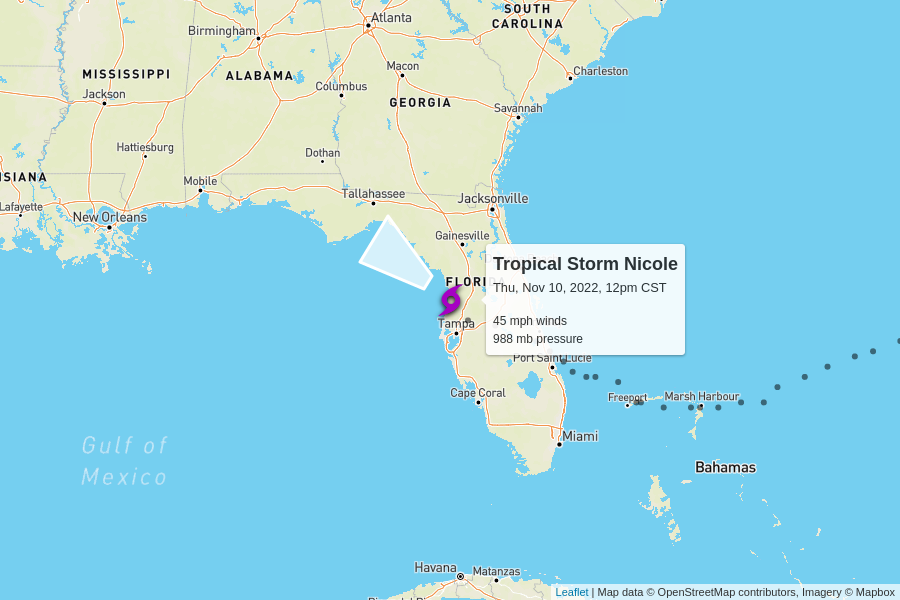
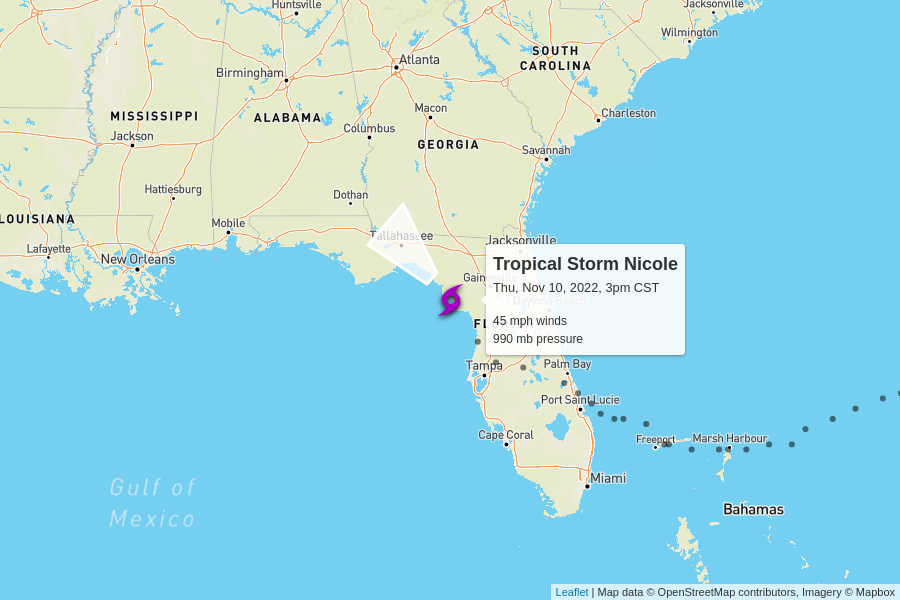
automatic update

diff --git a/docs/index.html b/docs/index.html
@@ -100,7 +100,7 @@
         <td colspan="6" class="storm category-0" >
           <h2>
             Tropical Storm Nicole
-            <p class="updated">last updated <span data-time>2022-11-10T18:00:00.000Z</span></p>
+            <p class="updated">last updated <span data-time>2022-11-10T21:00:00.000Z</span></p>
           </h2>
         </td>
       </tr>
@@ -116,11 +116,11 @@
       <tr>
         <td class="spacer"></td>
         <td>45 mph</td>
-        <td>988 mb</td>
+        <td>990 mb</td>
         <td>
           15 mph to the northwest
           <br/>
-          <span style="display: inline-block; font-size: 1.5em; transform: rotate(305deg);">↑</span>
+          <span style="display: inline-block; font-size: 1.5em; transform: rotate(315deg);">↑</span>
         </td>
         <td><a href="https://raw.githubusercontent.com/mgwalker/atlantic-hurricanes/main/data/csv/AL172022.csv">AL172022.csv</a></td>
         <td><a href="https://www.nhc.noaa.gov/archive/2022/NICOLE.shtml?">NHC advisories</a></td>
